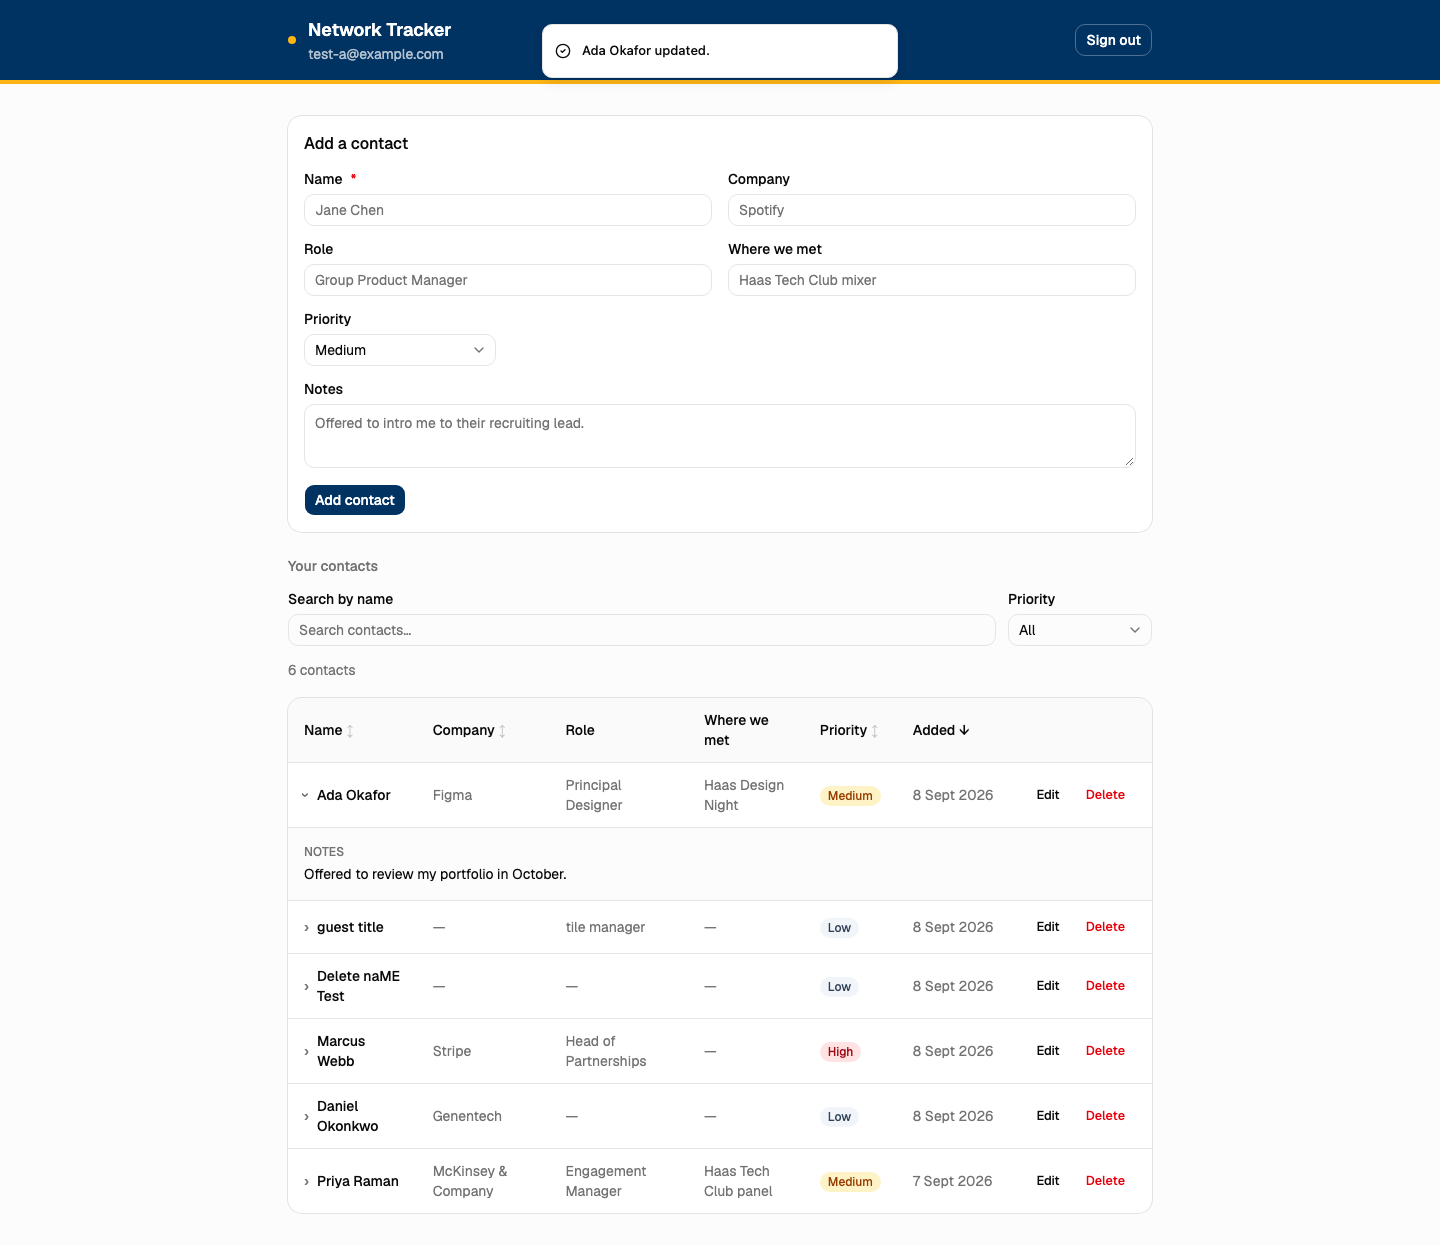
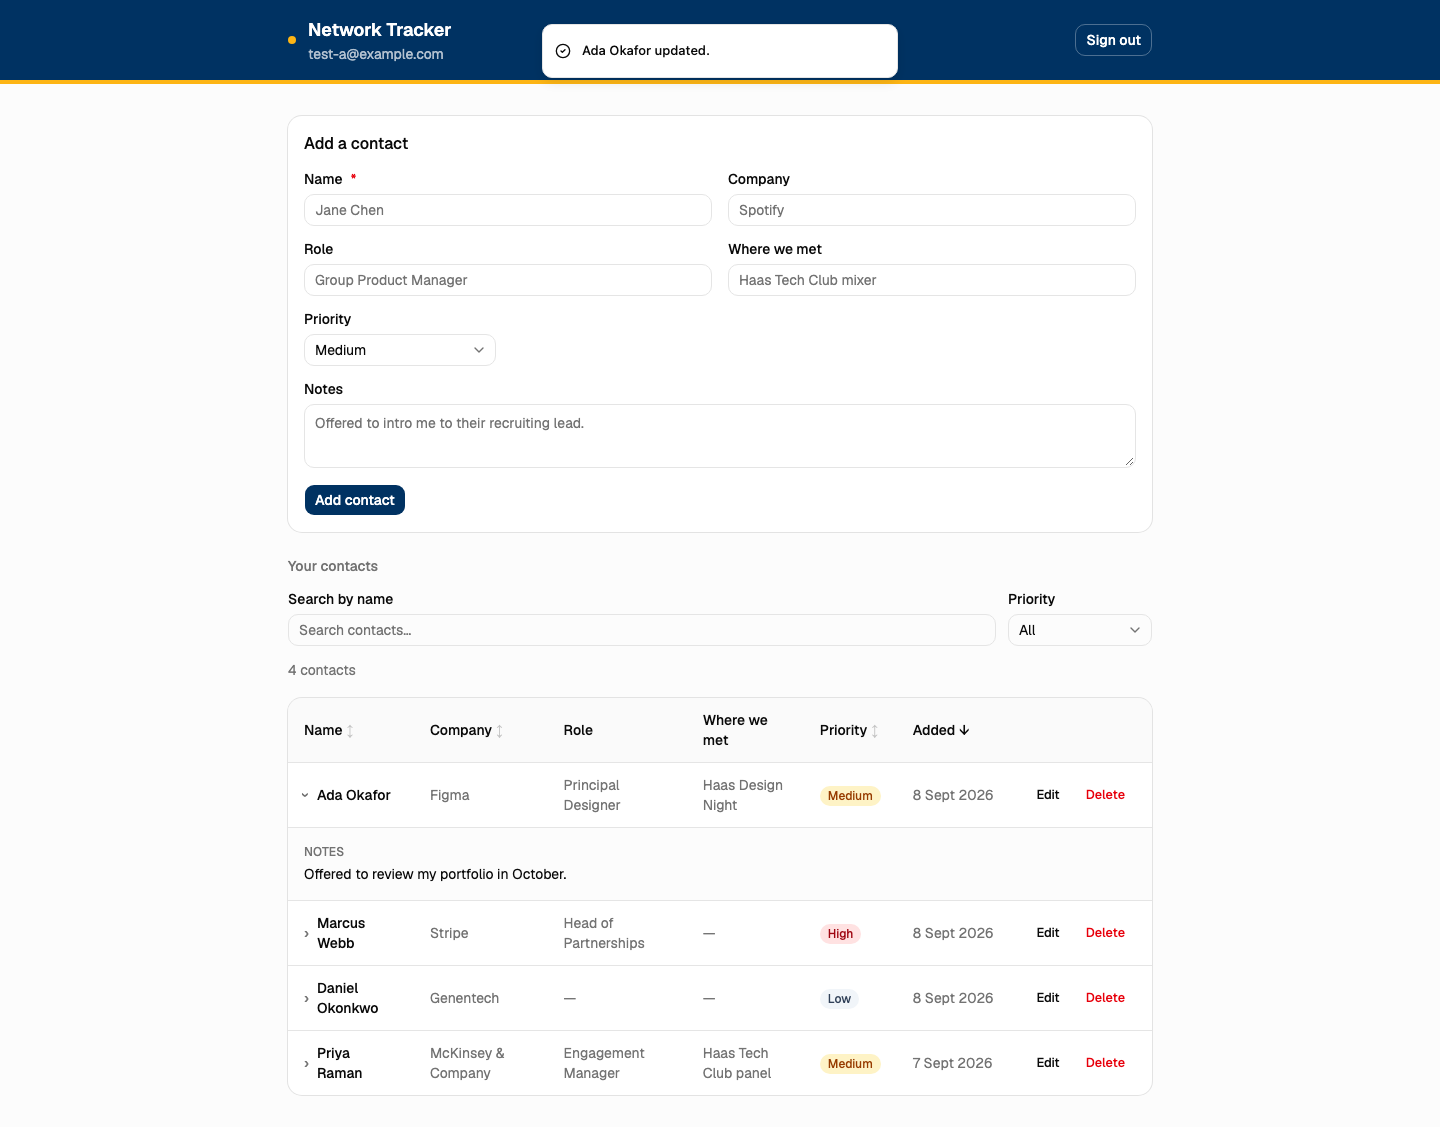
Recapture screenshots against the tidied contact list
Qianyin removed the debugging rows from the test-a account, so the evidence
now shows three realistic contacts -- one at each priority, with real
companies -- instead of entries named "guest title" and "Delete naME Test".

Adds a pause before the two-account comparison shot so the delete toast has
faded. That pair is meant to read as a clean like-for-like comparison, and a
notification sitting over one half of it is a distraction.

README counts updated from six to three, and every image reference
re-checked against the files on disk.

diff --git a/README.md b/README.md
@@ -145,9 +145,9 @@ request is sent. The API rejects the same thing independently — see §13.
 
 **The important pair.** Same app, same database, same moment — different accounts.
 
-| User A — 6 contacts | User B — none |
+| User A — 3 contacts | User B — none |
 |---|---|
-| ![test-a@example.com sees six contacts](docs/screenshots/12-user-a-contacts.png) | ![test-b@example.com sees an empty list](docs/screenshots/14-user-b-sees-nothing.png) |
+| ![test-a@example.com sees three contacts](docs/screenshots/12-user-a-contacts.png) | ![test-b@example.com sees an empty list](docs/screenshots/14-user-b-sees-nothing.png) |
 
 User B is not being *shown* an empty list. The rows were never sent, because Postgres refused
 to return them. §12 proves this in a way a screenshot cannot: the isolation test queries the
